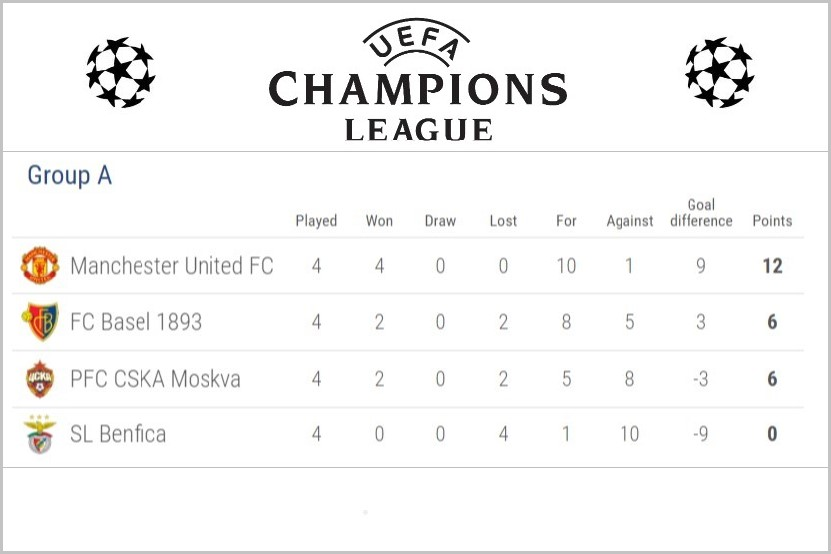
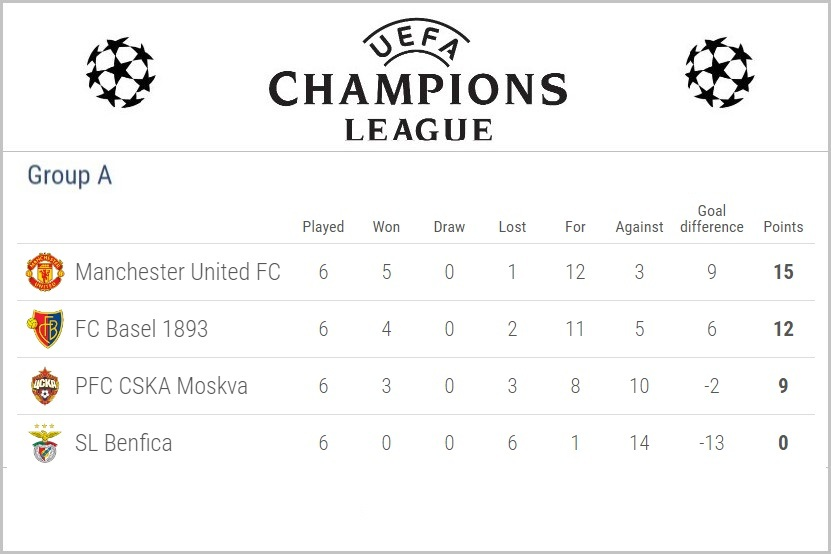
Added Champions League Standings

diff --git a/middleware/standings.js b/middleware/standings.js
@@ -1,10 +1,12 @@
 const http = require('http');
+// Connect to Heroku database
+const { Client } = require('pg');
 
-const url = 'http://api.football-data.org/v1/competitions/445/leagueTable';
+const eplTableURL = 'http://api.football-data.org/v1/competitions/445/leagueTable';
 
-// Get the EPL Table Standings
+// Get the Premier League Standings
 exports.getEPLTable = (req, res, next) => {
-	http.get(url, (resp) => {
+	http.get(eplTableURL, (resp) => {
 		const { statusCode } = resp;
 		const contentType = resp.headers['content-type'];
 
@@ -51,5 +53,43 @@ exports.getEPLTable = (req, res, next) => {
 		// Handle error here
 		// TO-DO: Redirect to error page
 		next(e);
+	});
+};
+
+// Get the Champions League standings
+exports.getUCLTable = (req, res, next) => {
+	// Get Client
+	const client = new Client({
+		connectionString: process.env.DATABASE_URL,
+		ssl: true,
+	});
+
+	// Connect
+	client.connect();
+
+	// Get Staff Data
+	client.query("SELECT * FROM STANDINGS WHERE id='ucl';", (err, resp) => {
+		// Handle error
+		if (err) {
+			res.status(400);
+		}
+
+		// Save relevant Data
+		req.ucl = resp.rows[0];
+		req.ucl = JSON.parse(req.ucl.data);
+		req.ucl.standing.forEach(function(team) {
+			if(team.position < 3) {
+				team.color = 'rgba(30, 240, 30, 0.5)';
+			}
+			else if(team.position == 3) {
+				team.color = 'rgba(187, 243, 255, 0.5)';
+			}
+		});
+
+		// End connection
+		client.end();
+
+		// Continue
+		next();
 	});
 };

diff --git a/public/css/style.css b/public/css/style.css
@@ -71,7 +71,7 @@
 
 .menu-title {
   text-align: center;
-  font-variant: caps !important;
+  text-transform: uppercase;
   text-rendering: auto;
 }
 
@@ -79,6 +79,8 @@
   display: block;
   width: 100%;
   height: auto;
+  border-radius: 20px;
+  border: 2px solid gray;
 }
 
 .overlay {
@@ -91,6 +93,7 @@
   right: 0;
   overflow: hidden;
   height: 35%;
+  border-radius: 20px;
 }
 
 .overlay-text {
@@ -120,6 +123,16 @@
   .overlay-text {
     font-size: 1.2em;
   }
+}
+
+/* -------------------------------------------------------- */
+/* ---------------------- STANDINGS ----------------------- */
+/* -------------------------------------------------------- */
+
+@media (min-width:992px){
+  .col-half {width: 44.33333334%;}
+  .col-half-offset-left {margin-left: 2.83333333%;}
+  .col-half-offset-right {margin-right: 2.83333333%;}
 }
 
 /* -------------------------------------------------------- */

diff --git a/routes/standings.js b/routes/standings.js
@@ -23,15 +23,34 @@ app.get('/premier-league', function(req, res, next) {
 
 });
 
+// GET response for '/standings/champions-league'
+app.use('/champions-league', standings.getUCLTable);
+
+app.get('/champions-league', function(req, res, next) {
+
+	try {
+		res.render('standings/cl_standings', {
+			title: 'Champions League Standings',
+			ucl: req.ucl
+		});
+	}
+	catch (e) {
+		// If there are any errors, send them off the the logger
+		next(e);
+	}
+
+});
+
 // GET response for '/standings'
-app.use('/', standings.getEPLTable);
+app.use('/', [standings.getEPLTable, standings.getUCLTable]);
 
 app.get('/', function(req, res, next) {
 
 	try {
 		res.render('standings/standings', {
 			title: 'Standings',
-			epl: req.epl
+			epl: req.epl,
+			ucl: req.ucl
 		});
 	}
 	catch (e) {
